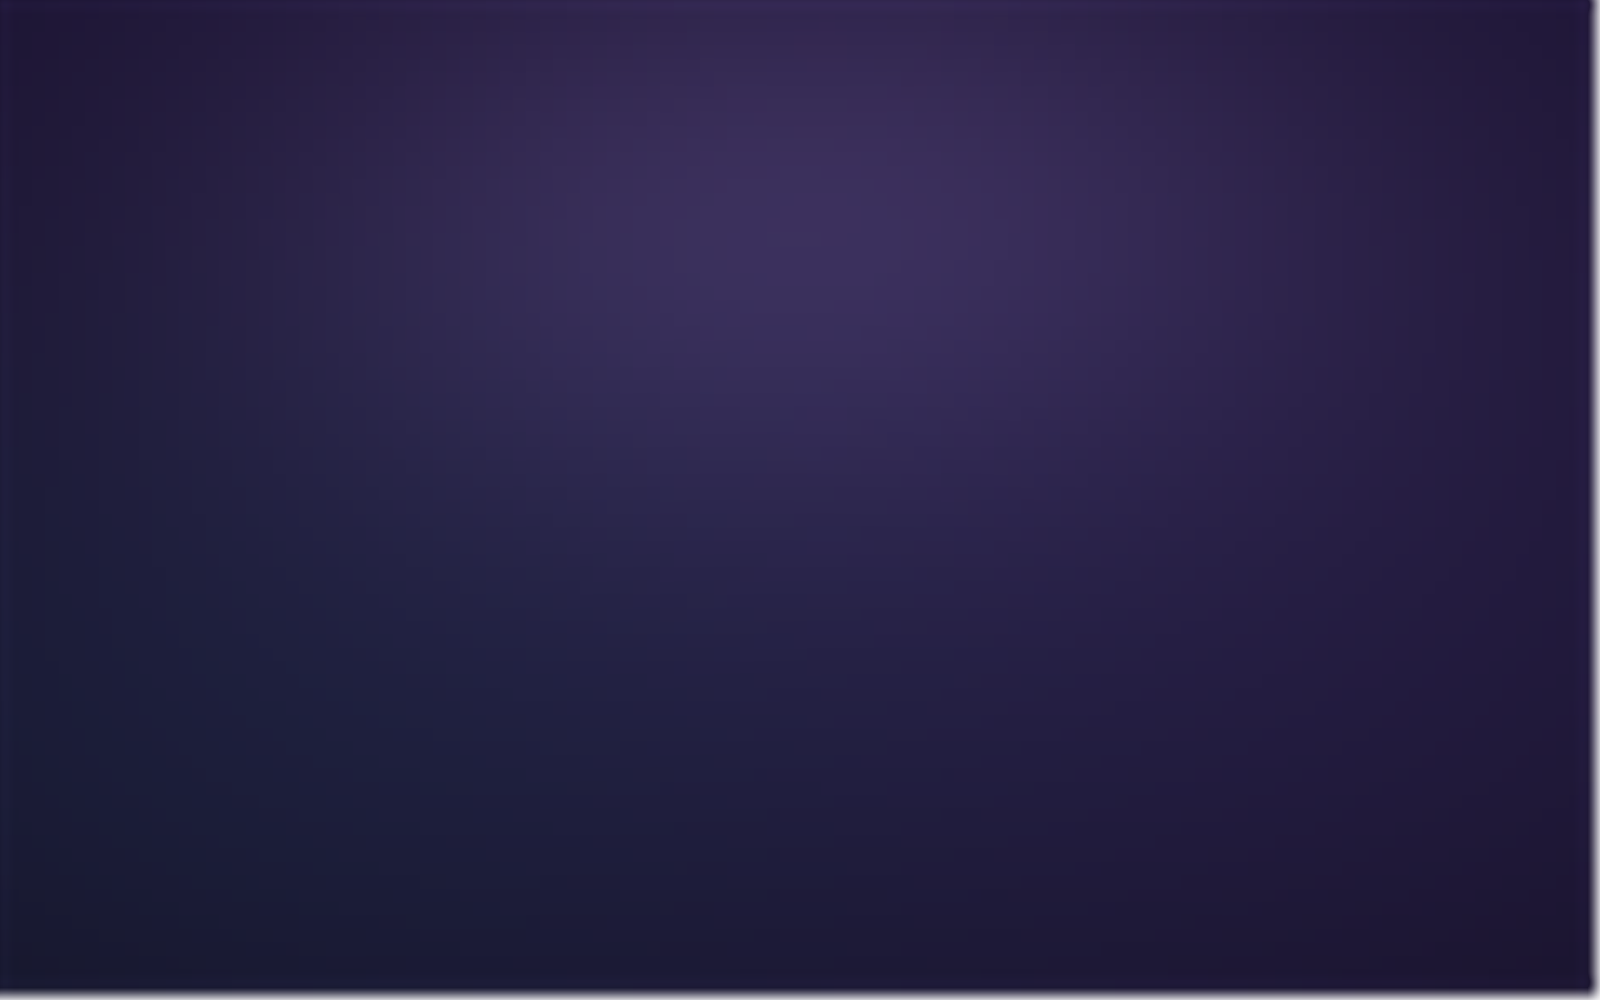
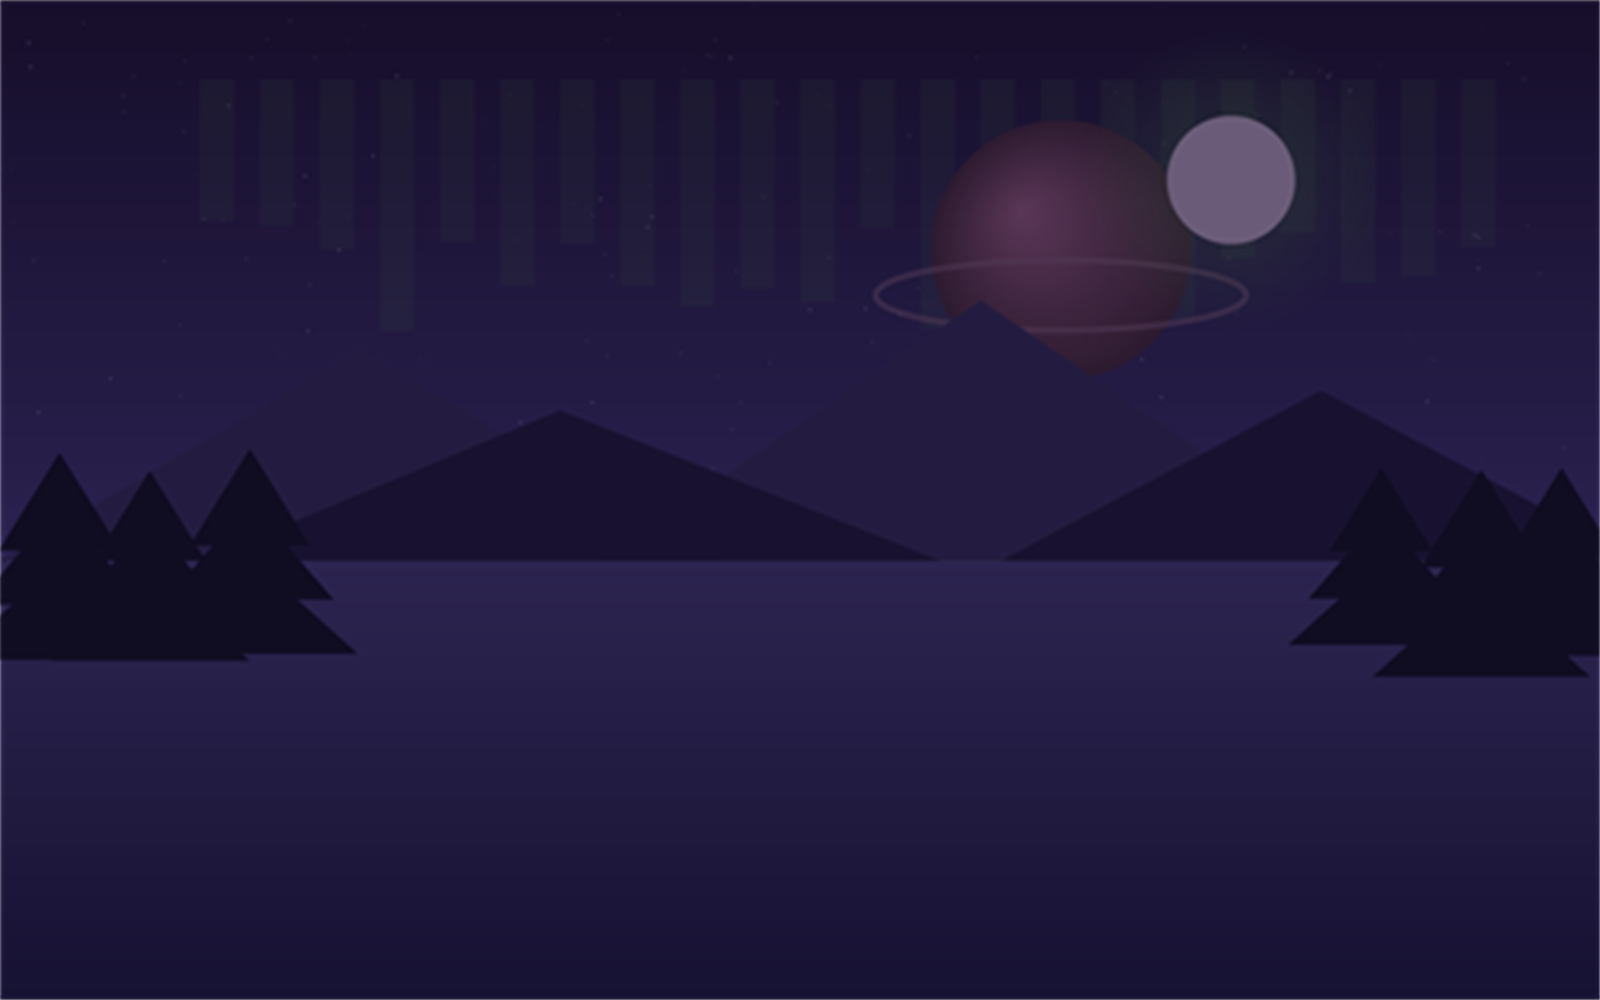
Add illustrated scene themes, drop name suffixes, free up acrylic
Replace the synthwave and winter gradient backdrops with actual drawn scenes:
synthwave is an outrun sunset (banded sun, perspective grid, mountains, stars)
and winter is a snowy night (ringed planet, glowing moon, mountains, pines).
Both are darkened and softly blurred and sit behind a translucent surface so
text stays readable, with the underlay peak set from each image's brightest
pixel. Drop the '(backdrop)' and '(frosted)' suffixes from the theme names, and
make the acrylic theme more transparent (surface opacity 0.85 to 0.70) with
lighter secondary text so it still clears AA over a worst-case bright desktop.

diff --git a/src/Jot/Theming/Themes.cs b/src/Jot/Theming/Themes.cs
@@ -74,7 +74,7 @@ public static class Themes
         new JotTheme
         {
             Id = "aurora",
-            Name = "Aurora (backdrop)",
+            Name = "Aurora",
             IsDark = true,
             TextMateTheme = "OneDark",
             Background = "#0c1320",
@@ -93,7 +93,7 @@ public static class Themes
         new JotTheme
         {
             Id = "ember",
-            Name = "Ember (backdrop)",
+            Name = "Ember",
             IsDark = true,
             TextMateTheme = "Monokai",
             Background = "#190f14",
@@ -112,7 +112,7 @@ public static class Themes
         new JotTheme
         {
             Id = "synthwave",
-            Name = "Synthwave (backdrop)",
+            Name = "Synthwave",
             IsDark = true,
             TextMateTheme = "Dracula",
             Background = "#160a18",
@@ -125,13 +125,13 @@ public static class Themes
             CurrentLine = "#1e1230",
             Border = "#3a2048",
             BackgroundImage = "themes/synthwave.png",
-            SurfaceOpacity = 0.5,
-            UnderlayPeak = "#6a1e50",
+            SurfaceOpacity = 0.55,
+            UnderlayPeak = "#803d50",
         },
         new JotTheme
         {
             Id = "winter",
-            Name = "Winter (backdrop)",
+            Name = "Winter",
             IsDark = true,
             TextMateTheme = "OneDark",
             Background = "#120e22",
@@ -144,26 +144,26 @@ public static class Themes
             CurrentLine = "#1c1838",
             Border = "#342c52",
             BackgroundImage = "themes/winter.png",
-            SurfaceOpacity = 0.5,
-            UnderlayPeak = "#52406e",
+            SurfaceOpacity = 0.55,
+            UnderlayPeak = "#71627f",
         },
         new JotTheme
         {
             Id = "acrylic",
-            Name = "Acrylic (frosted)",
+            Name = "Acrylic",
             IsDark = true,
             TextMateTheme = "DarkPlus",
             Background = "#0d1117",
-            Foreground = "#e6edf3",
+            Foreground = "#eef2f6",
             Panel = "#161b22",
-            Muted = "#aab4c2",
+            Muted = "#c2cad2",
             Accent = "#6cb0ff",
-            LineNumber = "#8b96a5",
+            LineNumber = "#b0bac4",
             Selection = "#264f78",
             CurrentLine = "#161b22",
             Border = "#30363d",
             Acrylic = true,
-            SurfaceOpacity = 0.85,
+            SurfaceOpacity = 0.7,
             UnderlayPeak = "#ffffff",
         },
     ];

diff --git a/README.md b/README.md
@@ -108,9 +108,9 @@ The defaults:
 Notable settings:
 
 - **`theme`** — the colour theme. Pick from the tray icon's **Theme** menu, or set it here. Available
-  themes: `dark` (default), `light`, `rose`, `lilac`, the blurred backdrops `aurora`, `ember`,
-  `synthwave`, and `winter`, and `acrylic` (a frosted, translucent window). Every theme is
-  contrast-checked so text stays clearly legible.
+  themes: `dark` (default), `light`, `rose`, `lilac`, the soft backdrops `aurora` and `ember`, the
+  illustrated scenes `synthwave` and `winter`, and `acrylic` (a frosted, translucent window). Every
+  theme is contrast-checked so text stays clearly legible.
 - **`hotkey`** — the global shortcut that opens the Explorer selection, for example `Ctrl+Space`,
   `Ctrl+Alt+E`, or `Win+Apostrophe`. If another app already owns your chosen chord, the tray icon
   says the hotkey is unavailable; pick a different one and restart Jot.
@@ -143,10 +143,12 @@ Launch straight into it for any file with `jot notes.md --preview`.
 ## Themes
 
 Switch theme from the tray icon's **Theme** menu, or set `theme` in the configuration. There is the
-default dark theme, a light theme, soft `rose` and `lilac` themes, four with blurred backdrops
-(`aurora`, `ember`, `synthwave`, and `winter`), and an `acrylic` frosted-glass window. The backdrops
-sit behind a translucent surface, and every theme is checked against the WCAG AA contrast threshold,
-so however pretty the backdrop, the text stays clearly readable.
+default dark theme, a light theme, soft `rose` and `lilac` themes, the gentle gradient backdrops
+`aurora` and `ember`, the illustrated scenes `synthwave` (an outrun sunset) and `winter` (a snowy
+night), and an `acrylic` frosted, translucent window. The backdrops and scenes sit behind a
+translucent surface, and every theme is checked against the WCAG AA contrast threshold — a test even
+loads the scene images and confirms no pixel is brighter than the contrast-tested level — so however
+pretty the background, the text stays clearly readable.
 
 ## Error checking
 